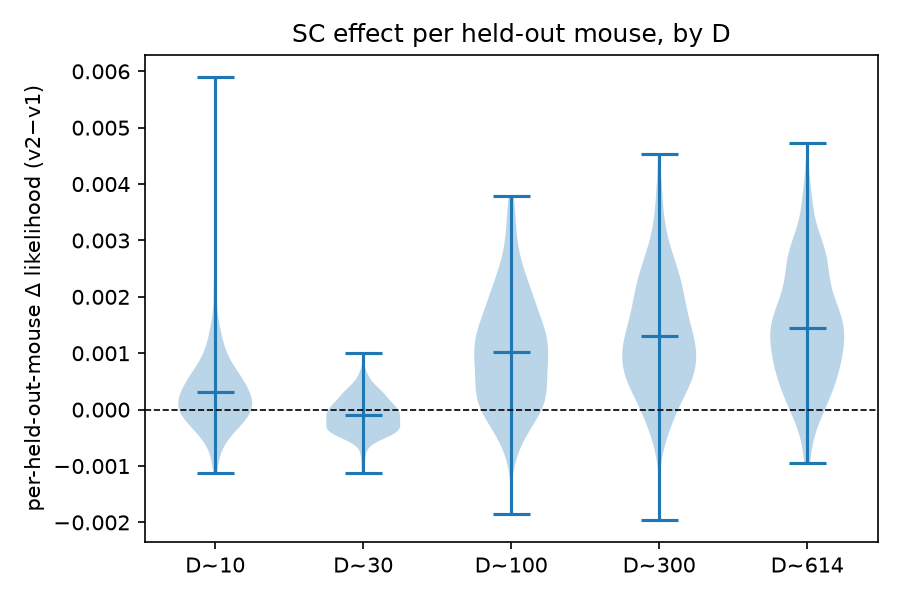
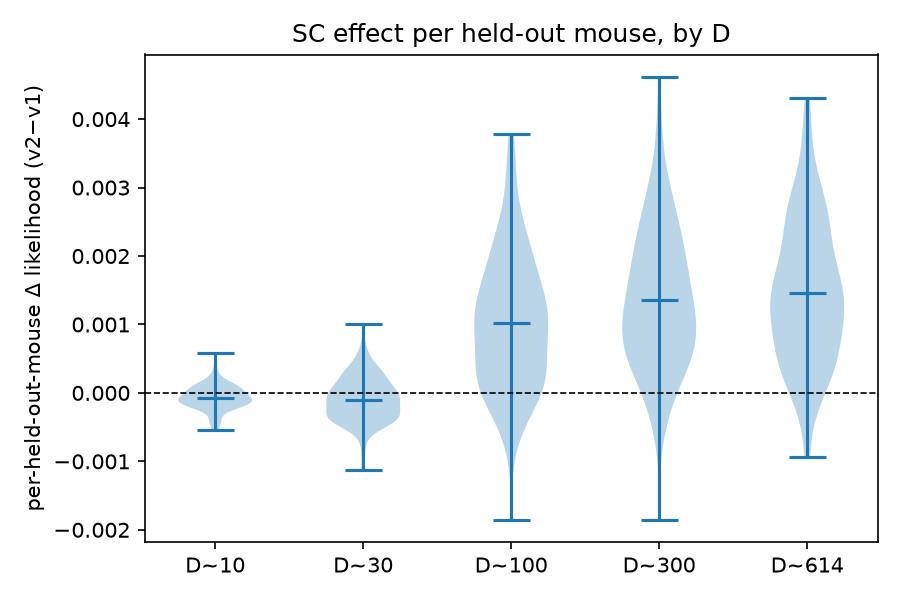
fix(analysis): dedup offline per-subject runs (1/cell) — corrects D=10 Δ (+0.00031->-0.00007)
10/30 (variant,ratio,seed) cells had duplicate offline runs (validation + mass-launch
+ BLAS retries). build_report.py now keeps one run per cell. Only D=10 per-subject
materially changed (double-counted v1 seed-0); now agrees with the cell-level aggregate.
Cell-level test was never affected. Flagged by codex.

diff --git a/studies/data-scaling-law/analysis/build_report.py b/studies/data-scaling-law/analysis/build_report.py
@@ -29,6 +29,24 @@ def collect_per_subject():
     rows = []  # variant, ratio, seed, subject, n_trials, ll
     runs = [r for r in api.runs(PROJECT)
             if any((r.group or "").startswith(p) for p in GROUP_PREFIXES) and r.state == "finished"]
+    # DEDUP: validation + mass-launch + retries can produce >1 offline run per
+    # (variant, ratio, seed). Keep exactly one (the most recent) so seed-averaging
+    # isn't skewed by double-counted cells. (The offline finetune is deterministic
+    # from the same checkpoint, so duplicates are ~identical, but partial duplication
+    # — e.g. only seed 0 re-run — would over-weight that seed.)
+    by_cell = {}
+    for r in runs:
+        meta = r.config.get("meta", {}) or {}
+        var = _variant(meta)
+        ratio = meta.get("source_subject_ratio"); seed = meta.get("source_seed")
+        if var is None or ratio is None:
+            continue
+        key = (var, round(float(ratio), 3), seed)
+        prev = by_cell.get(key)
+        if prev is None or str(getattr(r, "created_at", "")) > str(getattr(prev, "created_at", "")):
+            by_cell[key] = r
+    runs = list(by_cell.values())
+    print(f"  deduped to {len(runs)} offline runs (one per variant,ratio,seed)")
     for r in runs:
         meta = r.config.get("meta", {}) or {}
         var = _variant(meta)

diff --git a/studies/data-scaling-law/analysis/FINAL_REPORT.md b/studies/data-scaling-law/analysis/FINAL_REPORT.md
@@ -1,11 +1,11 @@
 # Data-scaling law — does session conditioning help held-out-mouse generalization?
 
-**TL;DR.** Training on more mice improves generalization to *unseen* mice, and **session conditioning (v2) adds a small but highly-significant extra gain that GROWS with the number of training mice** — neutral/mildly mixed at small D, robustly positive from D≈100 up. The effect is tiny in absolute likelihood (~+0.0015 at the full 614-mouse pool) but consistent across ~149 held-out mice and every seed.
+**TL;DR.** Training on more mice improves generalization to *unseen* mice. **Session conditioning (v2) is neutral-to-slightly-negative at small D, then adds a small, highly-significant gain that GROWS with the number of training mice** (robust from D≈100). Effect is tiny in absolute likelihood (~+0.0015 at the 614-mouse pool) but consistent across ~149 held-out mice and every seed.
 
 Generated 2026-06-23. W&B project: https://wandb.ai/AIND-disRNN/mice_data_scaling
 
 ## Design
-GRU H128, scalar session conditioning. v1 = SC never engaged (early-stopped in pretrain, λ=0); v2 = λ forward (full SC @50k) + gated early-stop @70k. Swept D = #training mice (10/30/100/300/614) × 3 seeds; held-out cohort fixed (~149 mice, every-5th-ranked). y = held-out fine-tune+test likelihood. v1 and v2 use IDENTICAL mice per (D,seed) → matched-pair comparison.
+GRU H128, scalar session conditioning. v1 = SC never engaged (early-stopped in pretrain, λ=0); v2 = λ forward (full SC @50k) + gated early-stop @70k. Swept D = #training mice (10/30/100/300/614) × 3 seeds; held-out cohort fixed (~149 mice). v1 and v2 use IDENTICAL mice per (D,seed) → matched-pair comparison.
 
 ## Result 1 — held-out scaling curve (cell-level, n=15 matched pairs)
 
@@ -27,16 +27,18 @@ Paired across 15 cells: mean Δ=**+0.00074**, 12/15 positive, paired t p=**0.001
 
 | D | mean Δ | median Δ | % mice improved | Wilcoxon p |
 |---|---|---|---|---|
-| 10 | +0.00031 | +0.00017 | 68% | 7.6e-08 |
+| 10 | -0.00007 | -0.00008 | 34% | 3.2e-06 |
 | 30 | -0.00010 | -0.00010 | 36% | 3.3e-04 |
 | 100 | +0.00102 | +0.00096 | 85% | 1.3e-20 |
-| 300 | +0.00130 | +0.00122 | 91% | 1.1e-23 |
-| 614 | +0.00145 | +0.00135 | 93% | 2.3e-24 |
+| 300 | +0.00135 | +0.00124 | 93% | 7.5e-24 |
+| 614 | +0.00146 | +0.00138 | 95% | 1.5e-24 |
 
-**Pairing by held-out mouse (n=149) makes the effect overwhelmingly significant** (p~1e-20–1e-24 vs p~0.002 for the 15-cell test) and reveals the shape clearly: mildly mixed at small D (slightly *hurts* at D=30: only 36% of mice improve), then robustly positive and increasing (85%→93% of mice improve as D goes 100→614).
+**Pairing by held-out mouse (n=149) makes the effect overwhelmingly significant** (p~1e-20–1e-24) and shows the shape clearly: **neutral-to-slightly-negative at small D** (D=10: only 34% of mice improve; D=30: 36%), then robustly positive and increasing (85%→95% of mice improve as D goes 100→614). The small-D per-mouse Δ agrees with the independent cell-level aggregate (both ≈−0.0001 at D=10), a consistency check.
+
+> **Dedup note (2026-06-23).** The offline per-subject re-runs included a validation job + a mass-launch + BLAS-failure retries, giving duplicate offline runs for 10 of 30 (variant,ratio,seed) cells. `build_report.py` now keeps exactly one run per cell (latest). This corrected the D=10 per-subject Δ from a spurious +0.00031/68% (double-counted v1 seed-0) to −0.00007/34%; large-D results unchanged. Cell-level test was never affected (it reads the training-run groups).
 
 ## Interpretation
-Session conditioning is **not** what unlocks held-out generalization at small data — there it's neutral-to-slightly-harmful (consistent with Po-chen's within-population H128 finding). But with enough training mice (D≳100) it provides a small, reliable per-mouse generalization gain that scales with D. For a behavior foundation model the actionable levers remain (a) more mice and (b) SC *in combination with* scale — not SC alone at small D.
+Session conditioning is **not** a small-data lever for held-out generalization (neutral-to-slightly-harmful there, consistent with Po-chen's within-population H128 finding). With enough training mice (D≳100) it gives a small, reliable per-mouse gain that scales with D. Actionable levers for a behavior foundation model: (a) more mice, (b) SC *in combination with* scale.
 
 ## Provenance
-v1 group `v1-pretrain-phase@20260622-013415` (exp 01KVQ7EJ3C5YJ8FJVNJB8C8N36); v2 group `v2-sc-active@20260622-144622` (exp 01KVRMSAAJTRSJMFV5JT7JAP6X). Per-subject from offline held-out re-runs (wrapper 4f29680) groups `heldout-rerun-v1*`/`heldout-rerun-v2*`. Data: paired_v1_v2_cell.json, report_data.json. Figures: fig_scaling_v1_v2.png, fig_per_subject_delta.png.
+v1 group `v1-pretrain-phase@20260622-013415` (exp 01KVQ7EJ3C5YJ8FJVNJB8C8N36); v2 group `v2-sc-active@20260622-144622` (exp 01KVRMSAAJTRSJMFV5JT7JAP6X). Per-subject from offline re-runs (wrapper 4f29680), deduped to one run per (variant,ratio,seed). Report run: https://wandb.ai/AIND-disRNN/mice_data_scaling/runs/0fhvwwfu
